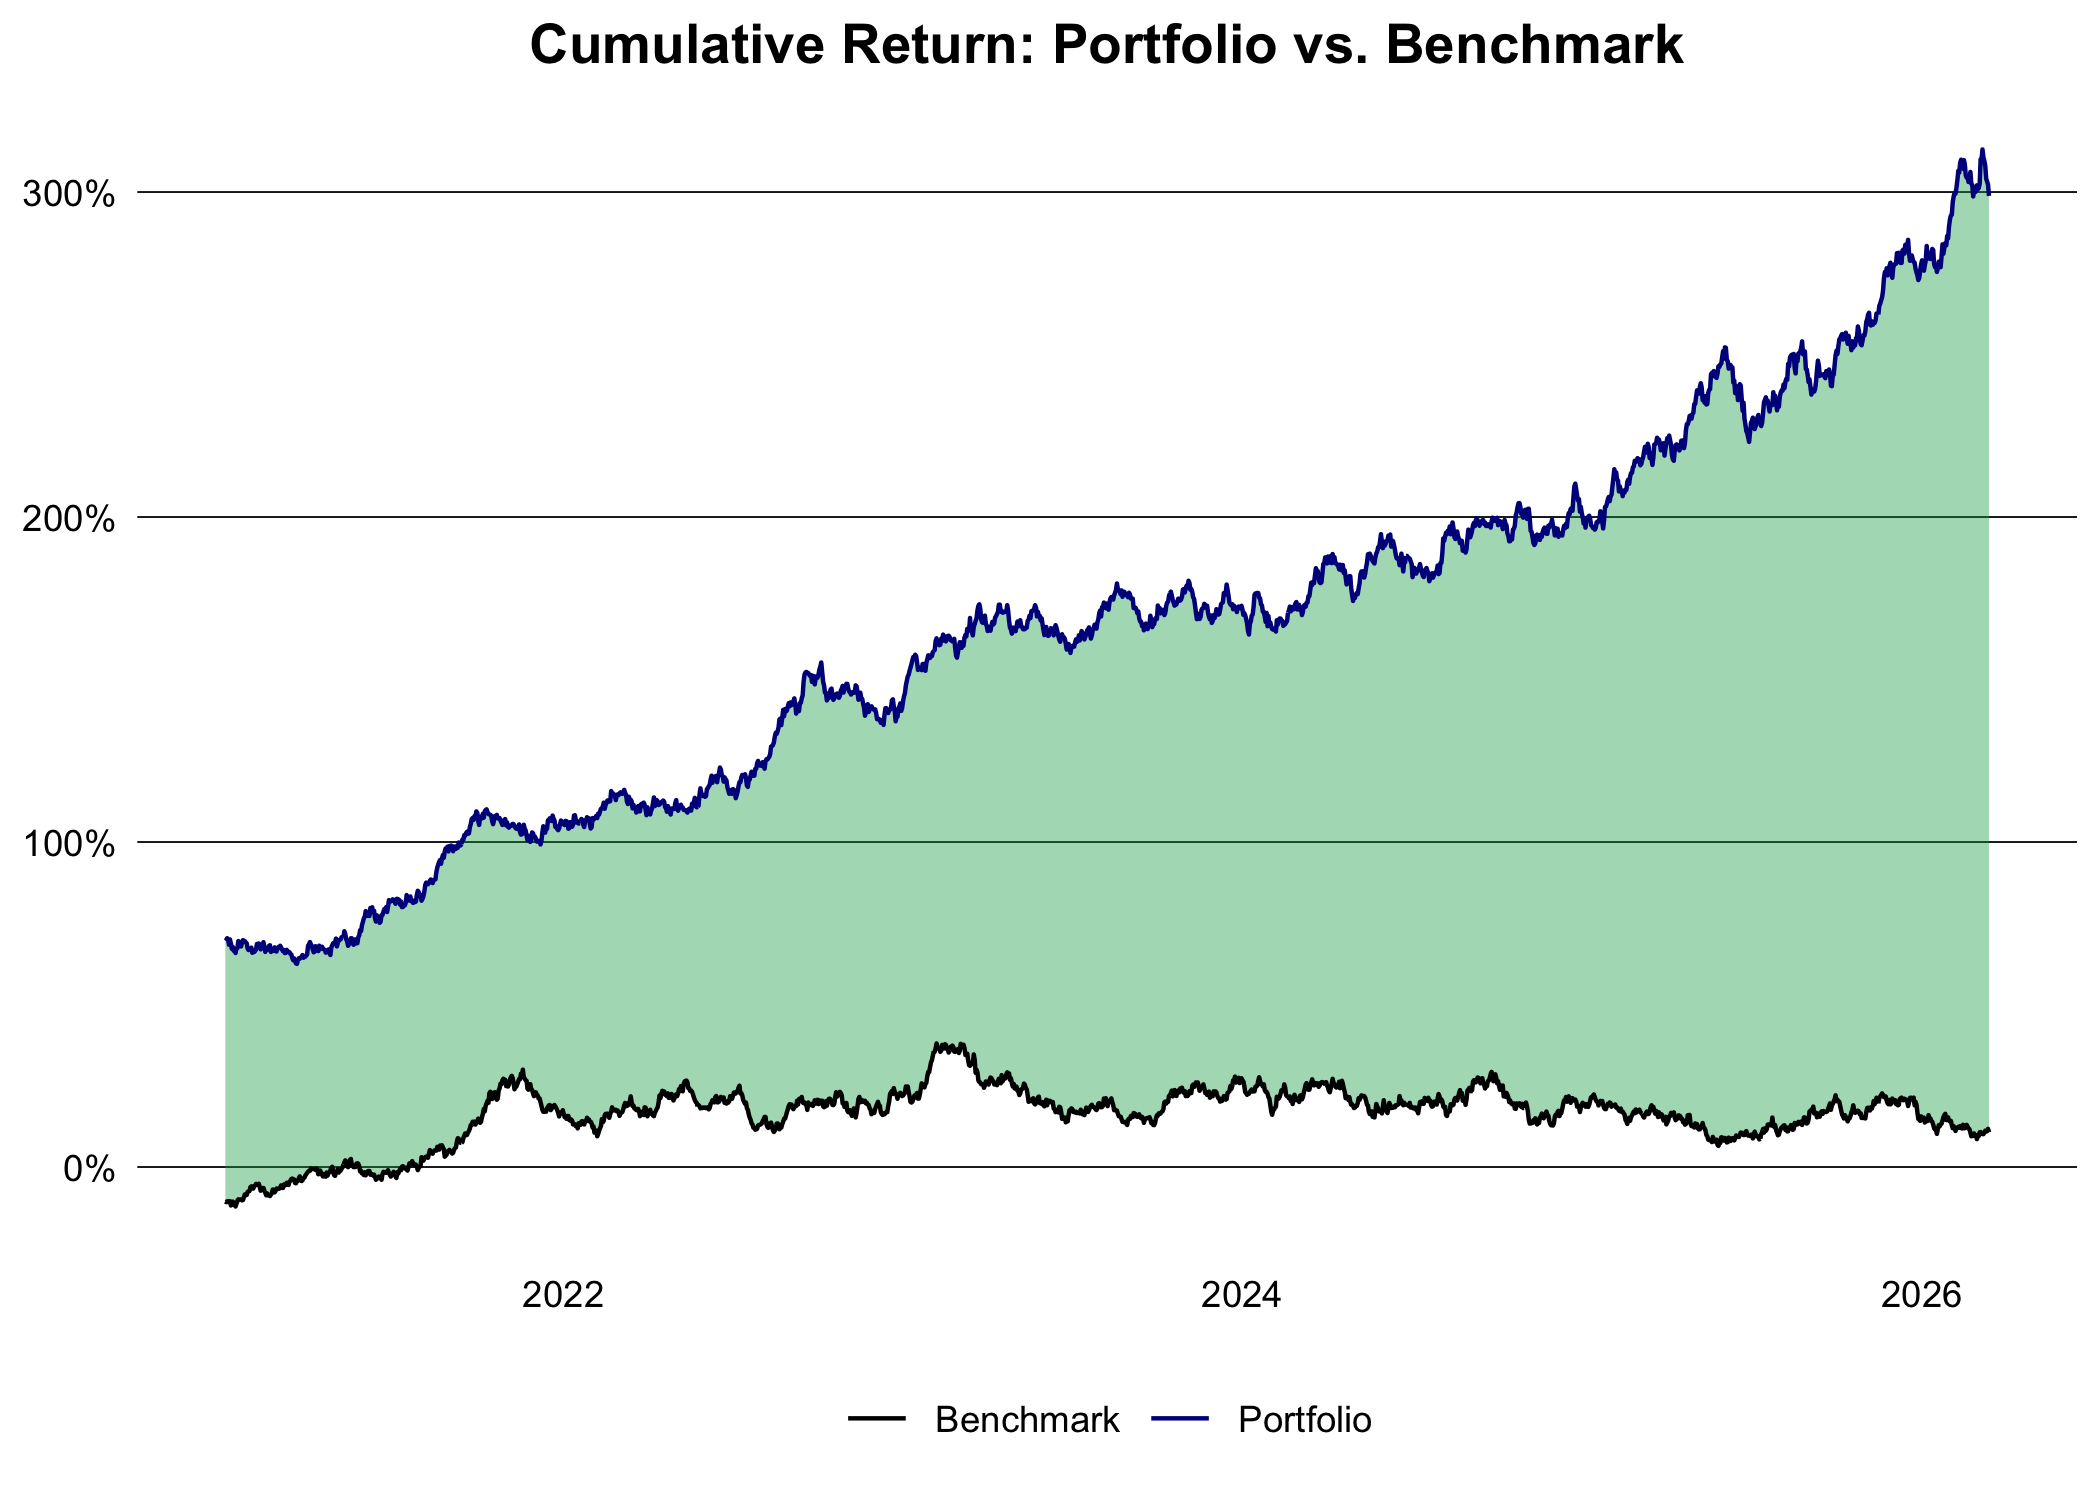
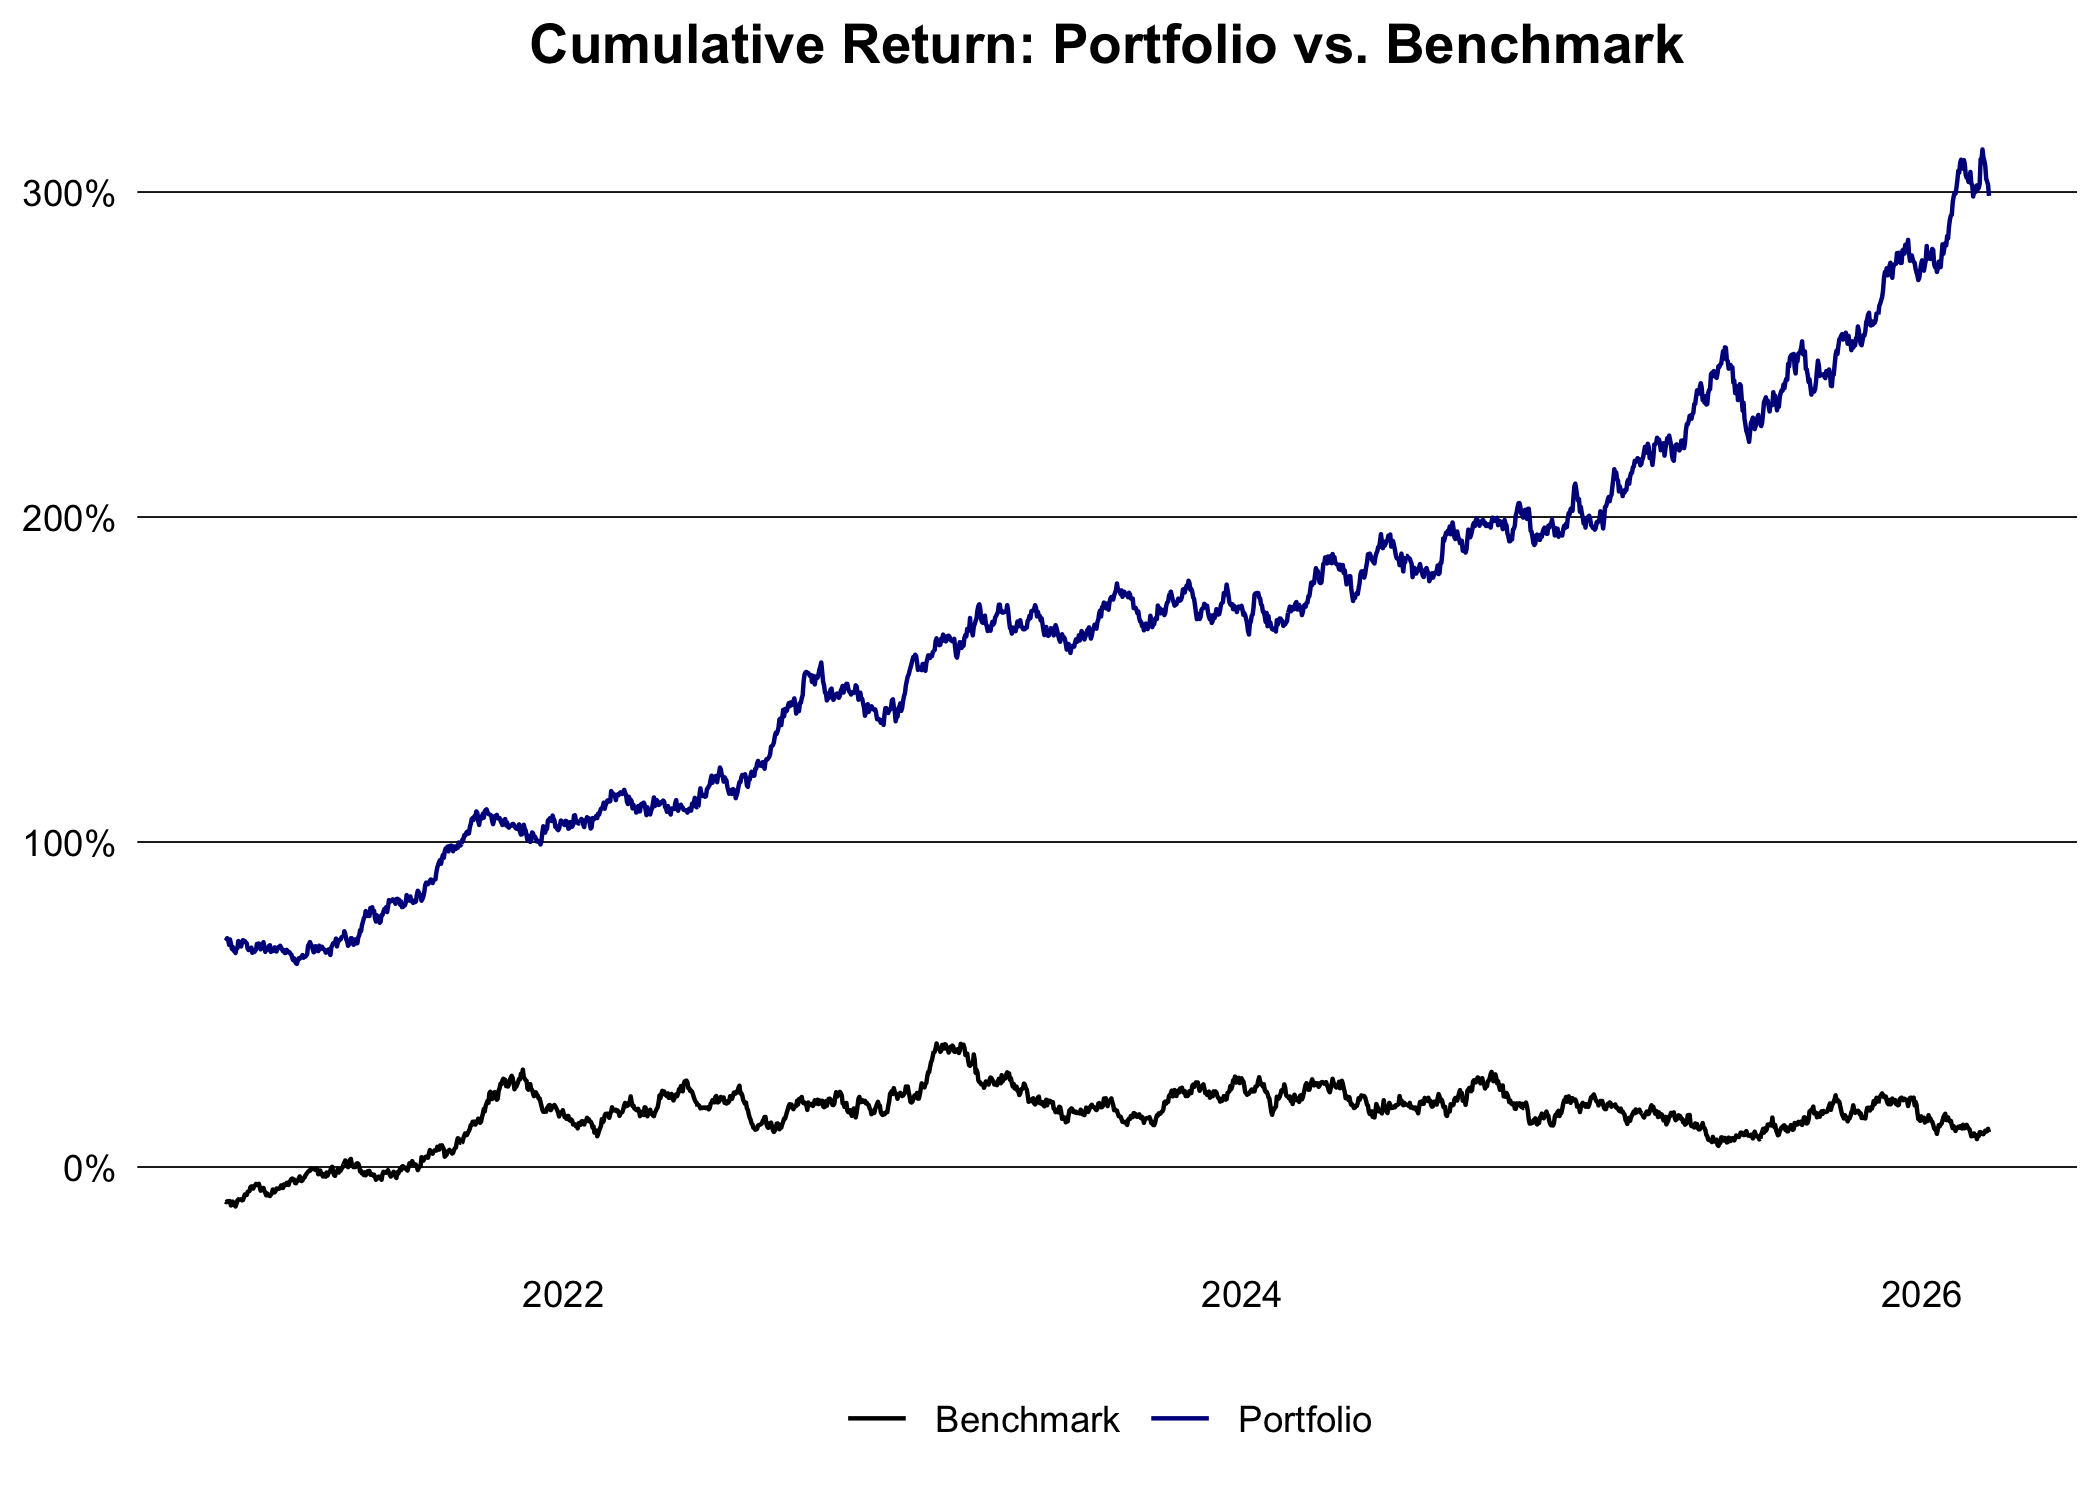
add return heatmap

Changed region(s): [[0.0929, 0.1227, 0.9595, 0.7973]]

diff --git a/README.md b/README.md
@@ -196,6 +196,28 @@ head(port_ret_year)
     5:  2019 -0.05218269
     6:  2020  0.36994989
 
+#### Monthly return heatmap
+
+``` r
+port_ret_month_dt = dt[, .(ret = prod(1 + wret) - 1), by = .(year = year(date), month = month(date))]
+
+ggplot(port_ret_month_dt, aes(x = factor(month), y = factor(year, levels = rev(unique(year))), fill = ret)) +
+  geom_tile() +
+  geom_text(aes(label = scales::percent(ret, accuracy = 0.1)), size = 2.5) +
+  scale_fill_gradient2(low = "#FF0000", mid = "white", high = "darkblue", midpoint = 0, labels = scales::percent) +
+  scale_x_discrete(labels = month.abb) +
+  labs(title = "Monthly Portfolio Returns") +
+  theme_minimal() +
+  theme(
+    plot.title = element_text(face = "bold", hjust = 0.5),
+    axis.title = element_blank(),
+    panel.grid = element_blank(),
+    legend.title = element_blank()
+  )
+```
+
+![](README_files/figure-commonmark/unnamed-chunk-9-1.png)
+
 #### Compare performance with a benchmark
 
 Calculat the benchmark return:
@@ -237,7 +259,7 @@ port |>
   labs(title = "Cumulative Return: Portfolio vs. Benchmark")
 ```
 
-![](README_files/figure-commonmark/unnamed-chunk-10-1.png)
+![](README_files/figure-commonmark/unnamed-chunk-11-1.png)
 
 Or turn it into a wide-format and display the performance as an area
 chart:
@@ -279,7 +301,7 @@ perf |>
   )
 ```
 
-![](README_files/figure-commonmark/unnamed-chunk-11-1.png)
+![](README_files/figure-commonmark/unnamed-chunk-12-1.png)
 
 ``` r
 perf |>
@@ -334,7 +356,7 @@ exposure |>
   )
 ```
 
-![](README_files/figure-commonmark/unnamed-chunk-14-1.png)
+![](README_files/figure-commonmark/unnamed-chunk-15-1.png)
 
 #### Calculate volatility
 
@@ -386,7 +408,7 @@ port_daily |>
   )
 ```
 
-![](README_files/figure-commonmark/unnamed-chunk-16-1.png)
+![](README_files/figure-commonmark/unnamed-chunk-17-1.png)
 
 #### Sharpe ratio
 
@@ -604,4 +626,4 @@ ggplot(cor_dt, aes(x = ticker1, y = ticker2, fill = cor)) +
   )
 ```
 
-![](README_files/figure-commonmark/unnamed-chunk-28-1.png)
+![](README_files/figure-commonmark/unnamed-chunk-29-1.png)
